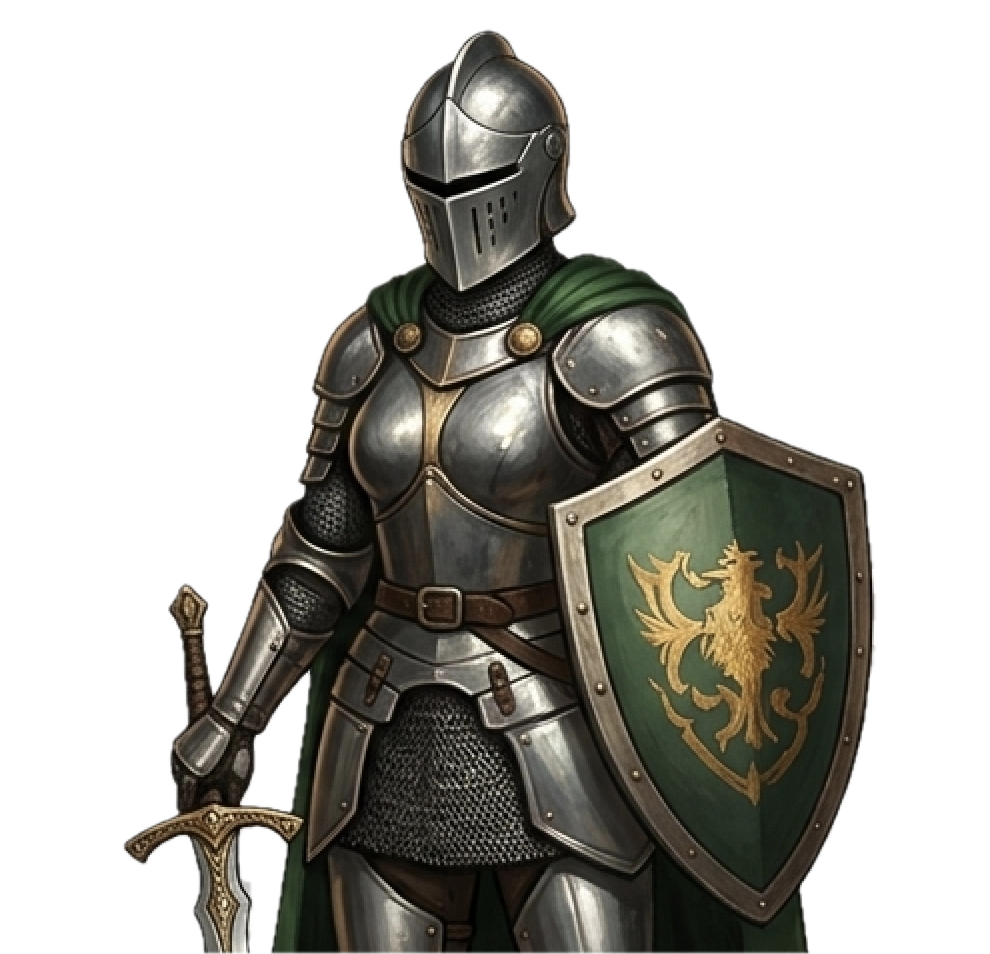
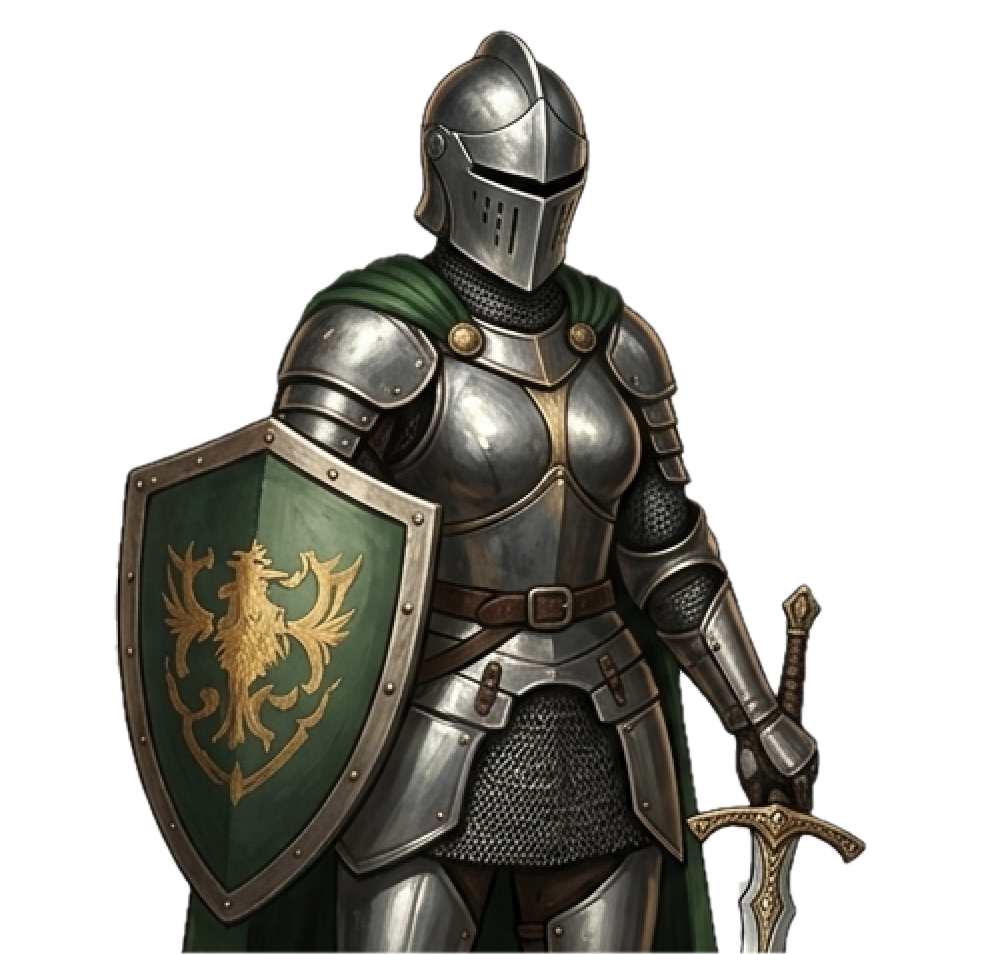
Update enemy data structure and GameManager logic; add enemy sprites and adjust UI handling

diff --git a/Assets/Scripts/GameManager.cs b/Assets/Scripts/GameManager.cs
@@ -21,9 +21,12 @@ public class GameManager : MonoBehaviour
     public Button mainMenuBtn;
     public Button surrenderBtn;
 
-    public GameObject goblin;
-    public GameObject orc;
-    public GameObject troll;
+    // public GameObject goblin;
+    // public GameObject orc;
+    // public GameObject troll;
+
+    public Image enemyCharacterImage; // drag your single consolidated Image here
+
     public List<EnemyData> enemies;
     private int currentEnemyIndex = 0;
     private CardData currentAttackCard;
@@ -84,10 +87,12 @@ public class GameManager : MonoBehaviour
         loopCount = 0;
         endlessMode = false;
         LoadEnemy(enemies[currentEnemyIndex]);
-        UpdateEnemyObjects();
+        messageText.text = $"A {currentEnemyName} appears! {enemies[currentEnemyIndex].introLine}";
+        // UpdateEnemyObjects();
         playerShield = 0;
         gameOver = false;
         isPlayerTurn = true;
+        
 
         RollAttackCard();
         UpdateUI();
@@ -170,14 +175,17 @@ public class GameManager : MonoBehaviour
         isPlayerTurn = false;
         StartCoroutine(EnemyTurn());
     }
-        void LoadEnemy(EnemyData data)
-    {
-        enemyMaxHP = data.maxHP;
-        enemyHP = data.maxHP;
-        enemyAttack = data.attackDamage;
-        currentEnemyName = data.enemyName;
-        enemyNameText.text = data.enemyName;
-    }
+    void LoadEnemy(EnemyData data)
+        {
+            enemyMaxHP = data.maxHP;
+            enemyHP = data.maxHP;
+            enemyAttack = data.attackDamage;
+            currentEnemyName = data.enemyName;
+            enemyNameText.text = data.enemyName;
+
+            enemyCharacterImage.sprite = data.enemySprite;
+            enemyCharacterImage.rectTransform.sizeDelta = data.displaySize;
+        }
 
     IEnumerator NextEnemyRoutine()
     {
@@ -199,7 +207,7 @@ public class GameManager : MonoBehaviour
         }
 
         LoadEnemy(enemies[currentEnemyIndex]);
-        UpdateEnemyObjects();
+        // UpdateEnemyObjects();
         if (endlessMode)
         {
             enemyMaxHP += loopCount * 5;
@@ -209,7 +217,7 @@ public class GameManager : MonoBehaviour
 
         UpdateUI();
         RollAttackCard();
-        messageText.text = $"A {currentEnemyName} appears!";
+        messageText.text = $"A {currentEnemyName} appears! {enemies[currentEnemyIndex].introLine}";
         if (scoreText != null) scoreText.text = $"Wins: {winCount}";
         attackBtn.interactable = true;
         blockBtn.interactable = true;
@@ -232,13 +240,13 @@ public void OnContinueForHighScore()
     loopCount++;
     currentEnemyIndex = 0;
     LoadEnemy(enemies[currentEnemyIndex]);
-    UpdateEnemyObjects();
+    // UpdateEnemyObjects();
     enemyMaxHP += loopCount * 5;
     enemyHP = enemyMaxHP;
     enemyAttack += loopCount * 1;
     UpdateUI();
     RollAttackCard();
-    messageText.text = $"A stronger {currentEnemyName} appears!";
+    messageText.text = $"A stronger {currentEnemyName} appears! {enemies[currentEnemyIndex].introLine}";
     if (scoreText != null) scoreText.text = $"Wins: {winCount}";
     attackBtn.interactable = true;
     blockBtn.interactable = true;
@@ -370,12 +378,12 @@ public void OnEndGameChoice()
         
     }
 
-    void UpdateEnemyObjects()
-    {
-        if (goblin != null) goblin.SetActive(currentEnemyIndex == 0);
-        if (orc != null) orc.SetActive(currentEnemyIndex == 1);
-        if (troll != null) troll.SetActive(currentEnemyIndex == 2);
-    }
+    // void UpdateEnemyObjects()
+    // {
+    //     if (goblin != null) goblin.SetActive(currentEnemyIndex == 0);
+    //     if (orc != null) orc.SetActive(currentEnemyIndex == 1);
+    //     if (troll != null) troll.SetActive(currentEnemyIndex == 2);
+    // }
 
 }
 

diff --git a/Assets/Scripts/EnemyData.cs b/Assets/Scripts/EnemyData.cs
@@ -6,5 +6,7 @@ public class EnemyData : ScriptableObject
     public string enemyName;
     public int maxHP;
     public int attackDamage;
-    [TextArea] public string introLine; // handy later for Phase 6
+    public Sprite enemySprite;
+    public Vector2 displaySize = new Vector2(400f, 400f); // width/height in UI units — this replaces manually resizing 3 separate GameObjects
+    [TextArea] public string introLine;
 }
